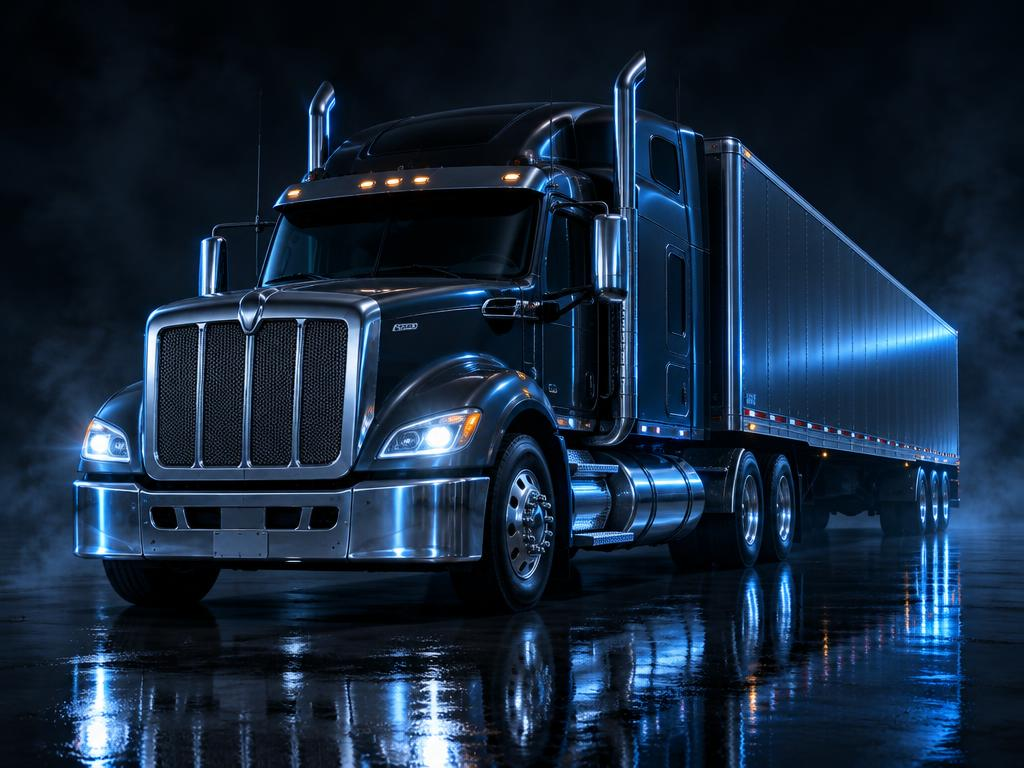
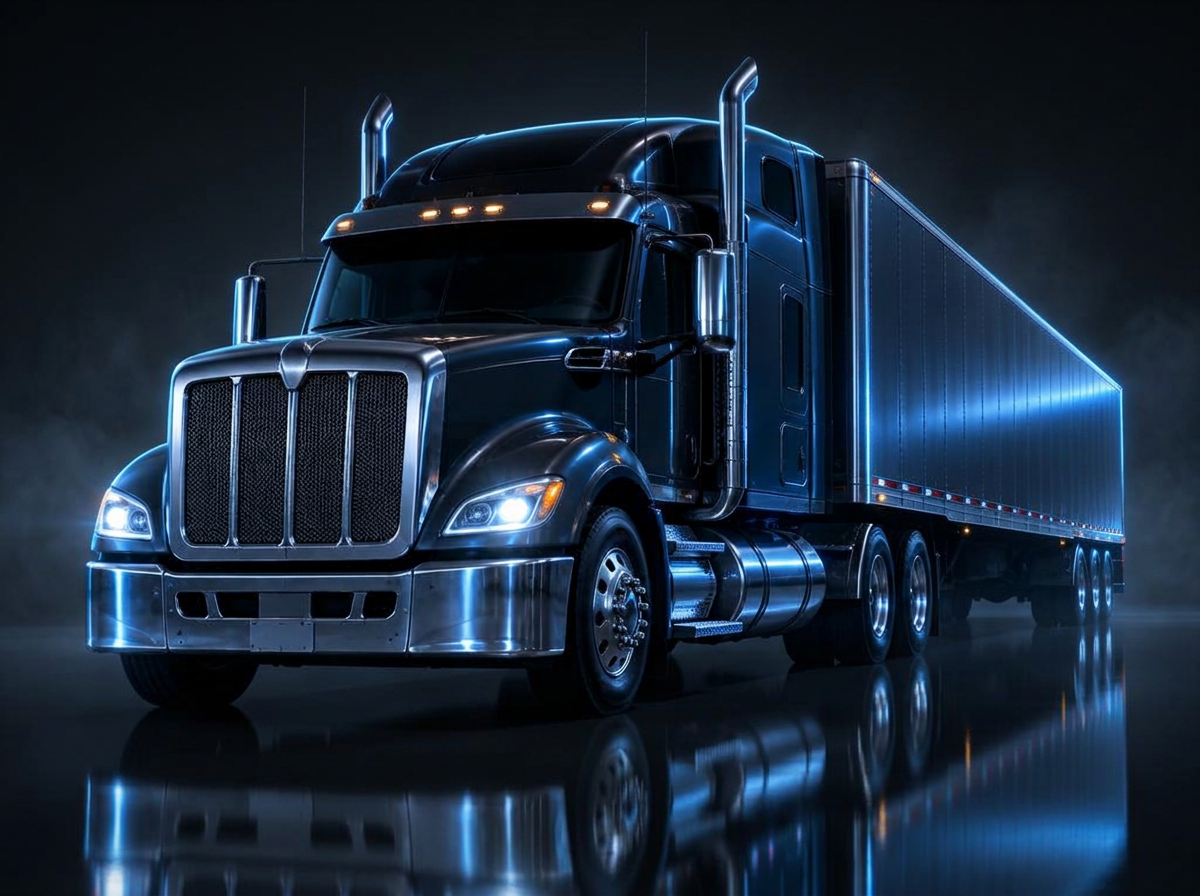
Changes

diff --git a/src/routes/index.tsx b/src/routes/index.tsx
@@ -44,7 +44,7 @@ export const Route = createFileRoute("/")({
 
 const products: Product[] = [
   {
-    img: "/images/gasoline-engine-oil.jpg",
+    img: "/images/vehicle-gasoline.jpg",
     name: "Gasoline Engine Oil",
     spec: "Passenger cars · Gasoline engines",
     tag: "01 / Gasoline",
@@ -54,7 +54,7 @@ const products: Product[] = [
     delay: "0ms",
   },
   {
-    img: "/images/diesel-engine-oil.jpg",
+    img: "/images/vehicle-diesel.jpg",
     name: "Diesel Engine Oil",
     spec: "Trucks · Fleets · Diesel engines",
     tag: "02 / Diesel",
@@ -64,7 +64,7 @@ const products: Product[] = [
     delay: "1.2s",
   },
   {
-    img: "/images/gear-transmission-fluids.jpg",
+    img: "/images/vehicle-transmission.jpg",
     name: "Gear and Automatic Transmission Fluids",
     spec: "Gearboxes · Automatic transmissions",
     tag: "03 / Transmission",
@@ -74,7 +74,7 @@ const products: Product[] = [
     delay: "2.4s",
   },
   {
-    img: "/images/industrial-oil.jpg",
+    img: "/images/vehicle-industrial.jpg",
     name: "Industrial Oil",
     spec: "Hydraulics · Machinery · Manufacturing",
     tag: "04 / Industrial",

diff --git a/src/components/ProductCard.tsx b/src/components/ProductCard.tsx
@@ -25,7 +25,7 @@ export function ProductCard({ p }: { p: Product }) {
             src={p.img}
             alt={`${p.name} application`}
             width={1024}
-            height={1024}
+            height={768}
             loading="lazy"
             className="h-full w-full object-cover transition-transform duration-700 ease-out group-hover:scale-110"
           />
